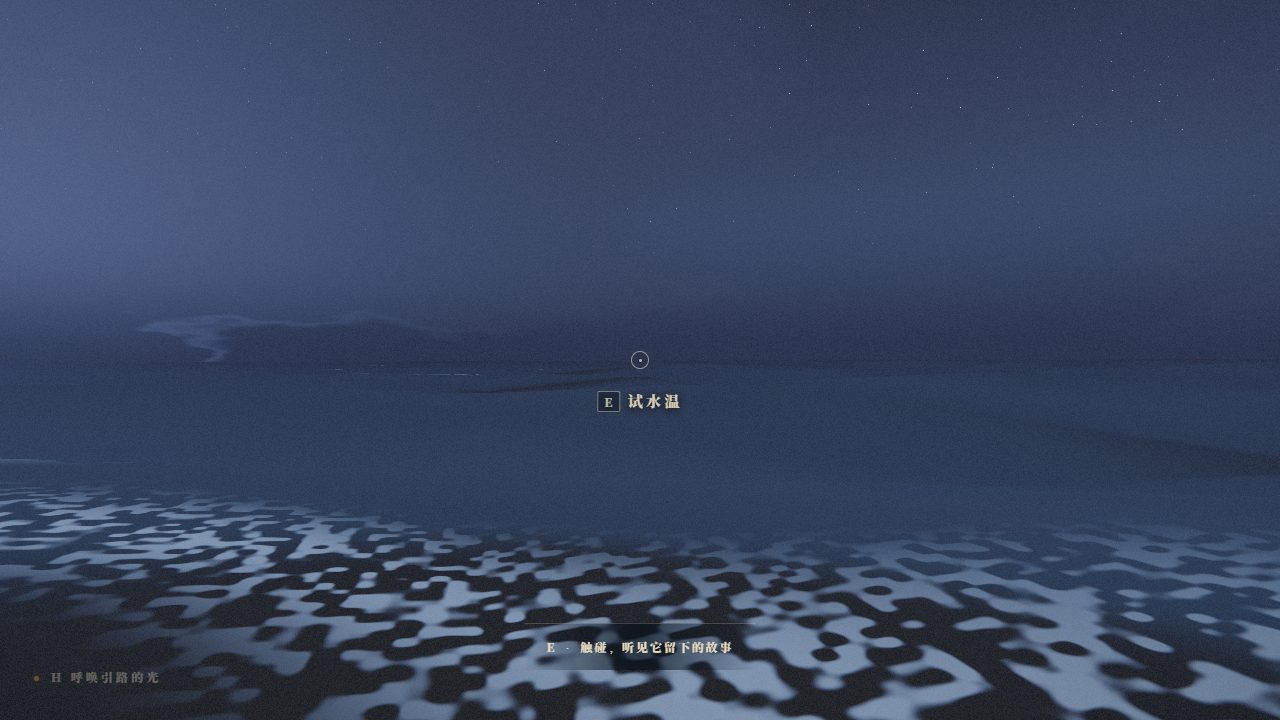
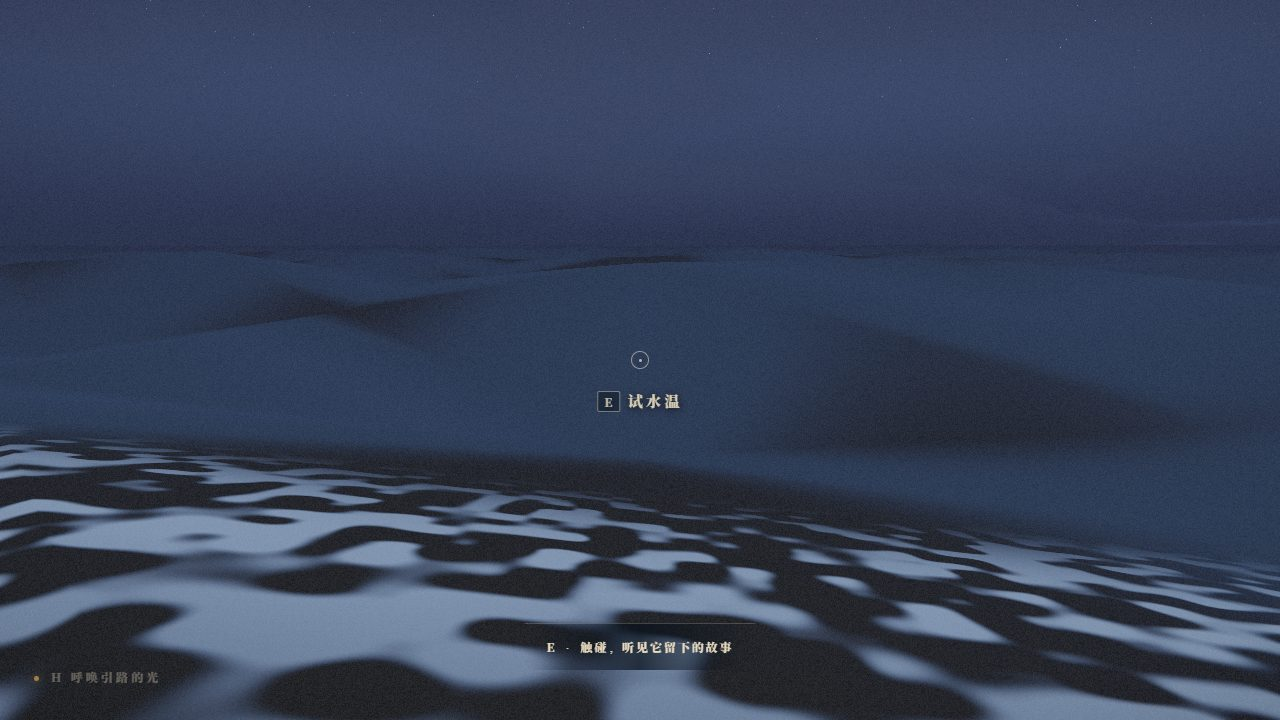
fix(nostos): reveal voyage names and bind water prompt to wet shore

diff --git a/games/nostos/tests/e2e/nostos.spec.ts b/games/nostos/tests/e2e/nostos.spec.ts
@@ -96,9 +96,18 @@ test('海岸标题连续进入开场，暂停冻结镜头并正常交还控制 @
   await shot(page, 'opening-02-cinematic');
   await page.keyboard.press('Escape');
   await expect(page.locator('.pausepanel:not(.hidden)')).toBeVisible();
+  const voyageRows = page.locator('.pausepanel:not(.hidden) .voyage-row');
+  await expect(voyageRows).toHaveCount(8);
+  const voyageNames = ['序章 · 无名之海', '第一幕 · 忘食岸', '第二幕 · 独眼岬', '第三幕 · 喀耳刻的柱廊',
+    '第四幕 · 亡者之岸', '第五幕 · 塞壬水道', '第六幕 · 卡吕普索之岛', '第七幕 · 伊萨卡'];
+  for (let i = 0; i < voyageNames.length; i++) {
+    await expect(voyageRows.nth(i).locator('.name')).toHaveText(voyageNames[i]!);
+  }
   const paused = (await state(page)).openingTime;
-  await page.waitForTimeout(600);
+  // 等暂停层700ms淡入完成再取证，同时证明过渡期间开场时间保持冻结。
+  await page.waitForTimeout(800);
   expect((await state(page)).openingTime).toBe(paused);
+  await shot(page, 'pause-01-eight-act-names');
   await page.keyboard.press('Escape');
   await waitForPhase(page, 'roaming');
   const landed = await state(page);
@@ -142,6 +151,18 @@ test('窄屏标题、键盘菜单与低动态跳过可用 @opening', async ({ pa
   await waitForPhase(page, 'roaming');
   expect((await state(page)).fade).toBe(0);
   await expect(page.locator('.titlepanel')).toHaveJSProperty('inert', true);
+  await page.setViewportSize({ width: 390, height: 844 });
+  await page.keyboard.press('Escape');
+  const compactVoyage = page.locator('.pausepanel:not(.hidden) .voyage-row');
+  await expect(compactVoyage).toHaveCount(8);
+  for (let i = 0; i < 8; i++) await expect(compactVoyage.nth(i).locator('.name')).not.toHaveText('？？？');
+  await compactVoyage.last().scrollIntoViewIfNeeded();
+  const finalRow = await compactVoyage.last().boundingBox();
+  expect(finalRow).not.toBeNull();
+  expect(finalRow!.x).toBeGreaterThanOrEqual(0);
+  expect(finalRow!.x + finalRow!.width).toBeLessThanOrEqual(390);
+  await shot(page, 'pause-02-narrow-eight-act-names');
+  await page.keyboard.press('Escape');
 });
 
 test('第0幕视觉试点可渲染、木筏可读、导星可抬头对焦 @prologue-visual', async ({ page }) => {
@@ -170,7 +191,8 @@ test('第0幕视觉试点可渲染、木筏可读、导星可抬头对焦 @prolo
   await shot(page, '00-prologue-d-导星');
 
   await test.step('到达湿岸，实际向前走后仍显示 E，并能触发水温旁白', async () => {
-    await page.evaluate(() => window.__nostos!.teleport('prologue.water'));
+    // 东岸与旧西南潮石相隔近四十米；这里命中才能证明交互跟着整圈湿岸，而非隐藏点。
+    await page.evaluate(() => window.__nostos!.view({ x: 20.8, z: 0, yaw: -Math.PI / 2, pitch: -0.18 }));
     await waitForFocus(page, 'prologue.water');
     await expect(page.locator('.prompt.visible')).toContainText('试水温');
     await expect(page.locator('.prompt.visible em')).toHaveText('E');

diff --git a/games/nostos/src/game/interact.ts b/games/nostos/src/game/interact.ts
@@ -28,6 +28,13 @@ const DEFAULT_RADIUS = 2.6;
 /** 视锥半角：约 55°，比准星宽，避免"明明看着却点不到" */
 const CONE = Math.PI * 0.31;
 
+function insideZone(query: FocusQuery, def: InteractableDef): boolean {
+  const zone = def.proximityZone;
+  if (!zone) return false;
+  const radial = Math.hypot(query.x - zone.centerX, query.z - zone.centerZ);
+  return radial >= zone.innerRadius && radial <= zone.outerRadius;
+}
+
 /** 在候选里挑出当前该高亮的那一个；没有就返回 null。 */
 export function findFocus(
   query: FocusQuery,
@@ -44,9 +51,12 @@ export function findFocus(
     if (!isAvailable(def)) continue;
     const dx = def.x - query.x;
     const dz = def.z - query.z;
-    const distance = Math.hypot(dx, dz);
+    const anchorDistance = Math.hypot(dx, dz);
+    const inZone = insideZone(query, def);
+    // 区域命中代表玩家已经碰到画面里的目标；锚点距离只用于区域外的旧交互。
+    const distance = inZone ? 0 : anchorDistance;
     const radius = def.radius ?? DEFAULT_RADIUS;
-    if (distance > radius) continue;
+    if (!inZone && distance > radius) continue;
 
     if (def.look) {
       const tolerance = def.look.tolerance ?? 0.28;
@@ -61,7 +71,7 @@ export function findFocus(
 
     // 站在物件正上方时方向无意义，直接判为正对
     let offAngle = 0;
-    if (!def.look && distance > Math.max(0.15, def.proximityRadius ?? 0)) {
+    if (!def.look && !inZone && distance > Math.max(0.15, def.proximityRadius ?? 0)) {
       const dot = (dx * forwardX + dz * forwardZ) / distance;
       offAngle = Math.acos(Math.max(-1, Math.min(1, dot)));
       if (offAngle > CONE) continue;

diff --git a/games/nostos/tests/prologue-water.test.ts b/games/nostos/tests/prologue-water.test.ts
@@ -22,11 +22,24 @@ describe('序章水温线索的真实岸边可达性', () => {
     expect(hit?.def.id).toBe(water.id);
   });
 
-  it('贴近触水区域后转身仍有提示，远处仍必须朝向目标', () => {
+  it('整圈可见湿岸都能试水温，不再依赖西南角单一潮石', () => {
+    const zone = water.proximityZone!;
+    expect(zone).toEqual({ kind: 'annulus', centerX: 0, centerZ: 0, innerRadius: 20.4, outerRadius: 25.6 });
+    for (let i = 0; i < 12; i += 1) {
+      const angle = i / 12 * Math.PI * 2;
+      for (const radius of [20.8, 22.8, 24.4]) {
+        const x = Math.cos(angle) * radius, z = Math.sin(angle) * radius;
+        if (!ground.walkable(x, z)) continue;
+        // 背向西南潮石也应触发：玩家触碰的是脚边湿岸，不是远处石头。
+        expect(findFocus({ x, z, yaw: angle }, [water])?.def.id, `a=${angle}, r=${radius}`).toBe(water.id);
+      }
+    }
+    expect(findFocus({ x: 18.8, z: 0, yaw: 0 }, [water])).toBeNull();
+  });
+
+  it('原潮石附近仍然保留宽容触发', () => {
     for (const yaw of [0, Math.PI / 2, Math.PI, -Math.PI / 2]) {
       expect(findFocus({ x: water.x, z: water.z + 0.8, yaw }, [water])?.def.id).toBe(water.id);
     }
-    expect(findFocus({ x: water.x, z: water.z + 2.5, yaw: Math.PI }, [water])).toBeNull();
-    expect(findFocus({ x: water.x, z: water.z + 5, yaw: 0 }, [water])).toBeNull();
   });
 });

diff --git a/games/nostos/src/ui/overlay.ts b/games/nostos/src/ui/overlay.ts
@@ -353,8 +353,8 @@ export class Overlay {
   /**
    * 航程：走到第几幕、看过多少件东西。
    *
-   * 幕是线性的，所以当前幕之前的都算走完了；当前幕高亮；后面的还没揭开，
-   * 只留一个占位——把没到的地方剧透出来，等于把探索的意义提前花掉。
+   * 幕是线性的，所以当前幕之前的都算走完了；当前幕高亮。
+   * 八幕名称始终可见，作为航程结构；核心记忆仍只在真正走过后揭示。
    */
   setProgress(currentAct: number, touched: number): void {
     this.progressList.innerHTML = '';
@@ -363,7 +363,8 @@ export class Overlay {
       const state = index < currentAct ? 'done' : index === currentAct ? 'current' : 'locked';
       row.dataset.state = state;
       row.append(el('i'));
-      const label = index > currentAct ? '？？？' : act.def.title;
+      const ordinal = index === 0 ? '序章' : `第${'一二三四五六七'[index - 1]}幕`;
+      const label = `${ordinal} · ${act.def.title}`;
       row.append(el('span', 'name', label));
       const memory = index < currentAct ? (MEMORY_LABELS[act.def.id] ?? '') : '';
       row.append(el('span', 'memory', memory));

diff --git a/games/nostos/src/game/types.ts b/games/nostos/src/game/types.ts
@@ -21,6 +21,18 @@ export type InteractKind =
   /** 离岛：走到船边，结束这一幕 */
   | 'depart';
 
+/**
+ * 可见环境本身就是交互目标时使用的二维区域。
+ * 物件仍以 x/z 作为引导光锚点；区域只扩展玩家可触发的真实画面范围。
+ */
+export interface ProximityZone {
+  kind: 'annulus';
+  centerX: number;
+  centerZ: number;
+  innerRadius: number;
+  outerRadius: number;
+}
+
 export interface InteractableDef {
   id: string;
   kind: InteractKind;
@@ -36,6 +48,8 @@ export interface InteractableDef {
   radius?: number;
   /** 小范围环境交互：贴近此半径后无需瞄准脚下的单个点。默认仍须朝向目标。 */
   proximityRadius?: number;
+  /** 面状环境交互：进入可见区域即可触发，例如环绕岛屿的湿岸。 */
+  proximityZone?: ProximityZone;
   /** 远处线索可要求玩家真正抬头并朝向它，而不只是在地面交互点附近。 */
   look?: {
     yaw: number;

diff --git a/games/nostos/src/game/scenes/prologue.ts b/games/nostos/src/game/scenes/prologue.ts
@@ -64,6 +64,9 @@ export const prologue: Act = {
         y: 0.15,
         radius: 3.4,
         proximityRadius: 1.5,
+        // 湿岸着色从 radius - shoreWetWidth 开始，环绕整座沙洲。
+        // 玩家踩到任何一段可见湿岸都能试水温，不再必须找到西南角的潮石。
+        proximityZone: { kind: 'annulus', centerX: 0, centerZ: 0, innerRadius: 20.4, outerRadius: 25.6 },
       },
       {
         id: 'prologue.star',

diff --git a/games/nostos/src/styles.css b/games/nostos/src/styles.css
@@ -519,8 +519,8 @@ button.link:focus-visible {
 }
 
 .voyage-row[data-state='locked'] .name {
-  color: rgba(231, 217, 190, 0.22);
-  letter-spacing: 0.3em;
+  color: rgba(231, 217, 190, 0.48);
+  letter-spacing: 0.14em;
 }
 
 .voyage-row .memory {

diff --git a/README.md b/README.md
@@ -42,7 +42,8 @@ npx vite --config games/nostos/vite.config.ts --host 127.0.0.1 --port 4175 --str
 截至 2026-09-05：
 
 - 八幕叙事流程已实现：开始、登岸、漫游、线索、回忆、离岛、暂停与终幕。
-- 第0幕完成盐蚀木筏、绳结、断桨、湿岸和导星试点；已修复试水温的 E 反馈。
+- 第0幕完成盐蚀木筏、绳结、断桨、湿岸和导星试点；整圈可见湿岸均可触发“试水温”E反馈。
+- Esc航程面板始终显示八幕对应名称，未经历的核心记忆仍保持隐藏。
 - 开场改为实时海岸标题与约15秒连续镜头，加入情境引导、键盘焦点、窄屏布局和低动态模式。
 - 第1、2幕深化果树庭院、陶器、灰塘、弃置头盔、层岩洞窟与烧尖木桩，并同步交互落点和通行验证。
 - 第一幕「留下的人」已改为程序化3D跪坐水手；独眼回忆拆成四段小剧场，分区构图并及时退场，避免剪影堆叠。
@@ -66,7 +67,7 @@ npm run preview:nostos
 npm run test:e2e:nostos
 ```
 
-当前80项单测通过。前一轮第0—2幕交付另有开场、两幕交互/离岛、试水温和资源稳定性的6个浏览器用例；本轮人物与剧场补充完整84秒播放及分段实拍。完整八幕流程有 `@journey` 用例，但**未在最近这轮美术迭代中重跑**。软件渲染下的资源稳定性不等于显卡性能达标。
+当前81项单测通过。前一轮第0—2幕交付另有开场、两幕交互/离岛和资源稳定性的浏览器用例；本轮补充八幕暂停进度与异地湿岸E反馈回归。完整八幕流程有 `@journey` 用例，但**未在最近这轮美术迭代中重跑**。软件渲染下的资源稳定性不等于显卡性能达标。
 
 详细命令、退出码、失败根因与复测结果见[验证记录](games/nostos/runs/run-20260905-nostos-act12-art-r1/verification.json)。
 人物与独眼剧场的最新结果另见[本轮验收](games/nostos/runs/run-20260905-nostos-character-theatre-r1/verification.json)。

diff --git a/games/nostos/README.md b/games/nostos/README.md
@@ -24,7 +24,7 @@ npm run dev:nostos
 - 触碰：E / Enter / 鼠标左键；点击画面可重新锁定鼠标。
 - H：呼唤引路光尘，短暂指向下一处尚未查看的线索或离岛船。
 - 空格：推进旁白或跳过回忆；开场中可直接跳过。
-- Esc：暂停、查看航程、调整低动态、静音、字幕大小、灵敏度与视野。
+- Esc：暂停、查看八幕名称与当前航程，调整低动态、静音、字幕大小、灵敏度与视野。
 
 首次开始是**约15秒的实时海岸连续镜头**，不是黑场教学。三句独白保留叙事悬念，操作提示随观察、移动和接近木筏出现。支持键盘菜单与低动态模式；手柄已接入，尚未完成实体设备验收。
 
@@ -77,7 +77,7 @@ npm run build:nostos
 npm run test:e2e:nostos
 ```
 
-当前80项单测通过；前轮开场、窄屏/低动态、试水温、两幕全部交互与离岛、60秒资源观察等6个浏览器用例经复测通过。最新人物与剧场修订加入84秒回忆完整播放和分段实拍，结果见[本轮验收](runs/run-20260905-nostos-character-theatre-r1/verification.json)。真实地形与碰撞可达性、资产ID和几何预算也有自动检查。
+当前81项单测通过；前轮开场、两幕全部交互与离岛、60秒资源观察等用例经复测通过。最新修订让八幕名称在Esc航程中始终可见，并使整圈可见湿岸都能触发“试水温”；真实地形与碰撞可达性、资产ID和几何预算也有自动检查。
 
 只运行受影响范围，并使用新端口避免复用旧预览：
 

diff --git a/games/nostos/docs/GAMEPLAY.md b/games/nostos/docs/GAMEPLAY.md
@@ -85,8 +85,7 @@
 - ❌ 数值成长、技能树、资源管理、经济系统
 - ❌ 多结局解算、分支对话、道德值、好感度
 - ❌ 收集品清单、成就、地图、指南针、任务栏、常驻目标标记
-  （`Esc` 面板里的航程只显示"走到第几幕"，未到的幕次一律是 `？？？`——
-  把没到的地方剧透出来，等于把探索的意义提前花掉）
+  （`Esc` 面板展示八幕名称作为航程结构；尚未走过的核心记忆仍不提前揭示）
 - ❌ 海量 NPC（全作 4 位）、可招募同伴、护送
 - ❌ 巨型无缝开放世界（八幕是八张彼此独立的关卡，硬切相连）
 - ❌ 骨骼动画、面部表情、口型（活人在本作里也是黑绘剪影）
@@ -148,8 +147,8 @@ title ──开始──▶ intro ──说完──▶ arriving ──横摇结
 没有数值、没有分支权重、没有结局解算。碰过的东西只影响"这句旁白还播不播"
 和"能不能上船"，不影响故事往哪儿走。
 
-`Esc` 面板里的"航程"就是这两件事的呈现：走过的幕次列出岛名与那件记忆物件
-（"亡者之岸 · 空的祭酒碗"），当前幕高亮，未到的幕次是 `？？？`。
+`Esc` 面板里的"航程"就是这两件事的呈现：八幕名称始终列出，走过的幕次再补上
+对应记忆物件（"亡者之岸 · 空的祭酒碗"），当前幕高亮，未到的记忆物不剧透。
 底下一行 `第 X / 8 幕 · 已触碰 N 处`。登岸时的幕卡上也挂着 `X / 8`。
 
 ### 走完之后
